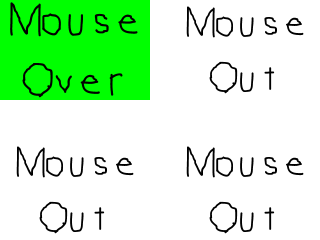
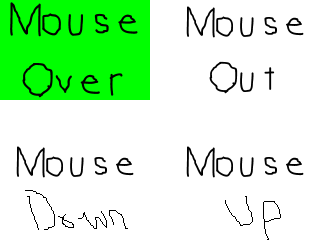
Implemented buttons and added a test button

diff --git a/win/WIN_Button.cpp b/win/WIN_Button.cpp
@@ -1,16 +1,21 @@
 #include "WIN_Button.h"
 #include <SDL_image.h>
+#include <cassert>
+#include <iostream>
 
 
 using namespace win;
 
-Button::Button(SDL_Renderer* renderer, const gfx::Rectangle& rect, const char* name)
+Button::Button(SDL_Renderer* renderer, const gfx::Rectangle& rect, const char* name, const char* spritePath)
 	: UIelement(rect, name)
 {
 	renderer_ = renderer;
 	//texture_ = SDL_CreateTexture(renderer, SDL_PIXELFORMAT_RGBA8888, SDL_TEXTUREACCESS_TARGET, rect.width, rect.height);
 	rect_ = rect;
-	texture_ = loadSprite("button_test.png");
+	texture_ = loadSprite(spritePath);
+	handleSpriteSheet();
+	activeClip_ = &(spriteClips_[1]);
+	buttonRect_ = { rect_.x, rect_.y, rect_.width, rect_.height };
 }
 
 Button::~Button()
@@ -23,28 +28,32 @@ Button::~Button()
 
 void Button::draw()
 {
-	SDL_Rect sdlRect = { rect_.x, rect_.y, rect_.width, rect_.height };
-	SDL_RenderCopy(renderer_, texture_, NULL, &sdlRect);
+	SDL_RenderCopy(renderer_, texture_, activeClip_, &buttonRect_);
 }
+
 
 void Button::mouseEnter()
 {
-	//buttonState_ = ButtonState::BUTTON_SPRITE_MOUSE_OVER;
+	buttonState_ = ButtonState::BUTTON_SPRITE_MOUSE_OVER;
+	activeClip_ = &(spriteClips_[0]);
 }
 
 void Button::mouseExit()
 {
-	//buttonState_ = ButtonState::BUTTON_SPRITE_MOUSE_OUT;
+	buttonState_ = ButtonState::BUTTON_SPRITE_MOUSE_OUT;
+	activeClip_ = &(spriteClips_[1]);
 }
 
 void Button::mouseButtonDown(MouseButton b, int xPixel, int yPixel)
 {
-	//buttonState_ = ButtonState::BUTTON_SPRITE_MOUSE_DOWN;
+	buttonState_ = ButtonState::BUTTON_SPRITE_MOUSE_DOWN;
+	activeClip_ = &(spriteClips_[2]);
 }
 
 void Button::mouseButtonUp(MouseButton b)
 {
-	//buttonState_ = ButtonState::BUTTON_SPRITE_MOUSE_UP;
+	buttonState_ = ButtonState::BUTTON_SPRITE_MOUSE_UP;
+	activeClip_ = &(spriteClips_[3]);
 }
 
 
@@ -70,4 +79,34 @@ SDL_Texture* Button::loadSprite(const char* path)
 	}
 
 	return newTexture;
+}
+
+void Button::handleSpriteSheet()
+{
+	//Load sprite sheet texture
+	assert(texture_);
+
+	//Set top left sprite
+	spriteClips_[0].x = 0;
+	spriteClips_[0].y = 0;
+	spriteClips_[0].w = 100;
+	spriteClips_[0].h = 100;
+
+	//Set top right sprite
+	spriteClips_[1].x = 100;
+	spriteClips_[1].y = 0;
+	spriteClips_[1].w = 100;
+	spriteClips_[1].h = 100;
+
+	//Set bottom left sprite
+	spriteClips_[2].x = 0;
+	spriteClips_[2].y = 100;
+	spriteClips_[2].w = 100;
+	spriteClips_[2].h = 100;
+
+	//Set bottom right sprite
+	spriteClips_[3].x = 100;
+	spriteClips_[3].y = 100;
+	spriteClips_[3].w = 100;
+	spriteClips_[3].h = 100;
 }

diff --git a/paint/PAINT_Program.cpp b/paint/PAINT_Program.cpp
@@ -37,8 +37,9 @@ void Program::initialize(SDL_Window* sdlWindow, SDL_Renderer* renderer, SDL_Surf
 
 	toolWindow_ = toolWindow;
 
-	gfx::Rectangle drawButtonRect(20, 60, 20, 20);
-	auto drawButton = std::make_shared<Button>(renderer_, drawButtonRect, "drawButton");
+	// Create tool window buttons. 
+	gfx::Rectangle drawButtonRect(20, 60, 60, 60);
+	auto drawButton = std::make_shared<Button>(renderer_, drawButtonRect, "drawButton", "button_test.png");
 	//screen_.AddChild(drawButton);
 	toolWindow->AddChild(drawButton);
 
@@ -60,8 +61,6 @@ void Program::run()
 	bool quit = false;
 	int xMouse{ 0 };
 	int yMouse{ 0 };
-	int xOffset;
-	int yOffset;
 
 	MouseButton button;
 
@@ -75,6 +74,7 @@ void Program::run()
 
 	//While application is running
 	std::shared_ptr<UIelement> activeElement = nullptr;
+	std::shared_ptr<UIelement> highlightedButton = nullptr;
 	while (!quit) {
 
 
@@ -92,9 +92,6 @@ void Program::run()
 			if (e.type == SDL_MOUSEMOTION) {
 
 				SDL_GetMouseState(&xMouse, &yMouse);
-				//Get the mouse offsets
-				//xOffset = e.motion.x;
-				//yOffset = e.motion.y;
 
 				for (const auto &child : children) {
 					//	//If the mouse is over the child
@@ -105,12 +102,24 @@ void Program::run()
 							if (activeElement) {
 								activeElement->mouseExit();
 							}
-							if (child) {
+							else if (child) {
 								child->mouseEnter();
 							}
 							activeElement = (child);
 						}
 					}
+				}
+
+				for (const auto& toolChild : toolChildren) {
+					const Rectangle& toolRect = toolChild->getRect();
+					if (toolRect.ContainsPoint(xMouse, yMouse)) {
+						toolChild->mouseEnter();
+						highlightedButton = toolChild;
+					}
+					else {
+						toolChild->mouseExit();
+					}
+
 				}
 			}
 
@@ -149,6 +158,14 @@ void Program::run()
 					const int yRel = yMouse - activeElement->getRect().y;
 					activeElement->mouseButtonDown(button, xRel, yRel);
 				}
+
+				if (activeElement == toolWindow_) {
+					const Rectangle& buttonRect = highlightedButton->getRect();
+					if (buttonRect.ContainsPoint(xMouse, yMouse)) {
+						highlightedButton->mouseButtonDown(button, NULL, NULL);
+					}
+				}
+
 			}
 
 			if (e.type == SDL_MOUSEBUTTONUP) {

diff --git a/win/WIN_Button.h b/win/WIN_Button.h
@@ -1,27 +1,29 @@
 #pragma once
 #include "WIN_UIelement.h"
 #include <string>
+#include <SDL.h>
 
 struct SDL_Texture;
 struct SDL_Renderer;
+struct SDL_Rect;
 
 
 namespace win
 {
-	//enum class ButtonState
-	//{
-	//	BUTTON_SPRITE_MOUSE_OUT,
-	//	BUTTON_SPRITE_MOUSE_OVER,
-	//	BUTTON_SPRITE_MOUSE_DOWN,
-	//	BUTTON_SPRITE_MOUSE_UP,
-	//};
+	enum class ButtonState
+	{
+		BUTTON_SPRITE_MOUSE_OUT,
+		BUTTON_SPRITE_MOUSE_OVER,
+		BUTTON_SPRITE_MOUSE_DOWN,
+		BUTTON_SPRITE_MOUSE_UP,
+	};
 
 	class Button :
 		public UIelement
 	{
 	public:
 		Button() = default;
-		Button(SDL_Renderer* renderer, const gfx::Rectangle& rect, const char* name);
+		Button(SDL_Renderer* renderer, const gfx::Rectangle& rect, const char* name, const char* spritePath);
 		virtual ~Button();
 		Button(const Button& that) = default;
 		Button(Button&& that) = default;
@@ -35,11 +37,15 @@ namespace win
 		void mouseButtonUp(MouseButton button) override;
 
 		SDL_Texture* loadSprite(const char* path);
+		void handleSpriteSheet();
 
 	private:
-		//ButtonState buttonState_;
+		ButtonState buttonState_;
 		SDL_Texture* texture_;
 		SDL_Renderer* renderer_;
 		gfx::Rectangle rect_;
+		SDL_Rect spriteClips_[4];
+		SDL_Rect* activeClip_;
+		SDL_Rect buttonRect_;
 	};
 }
